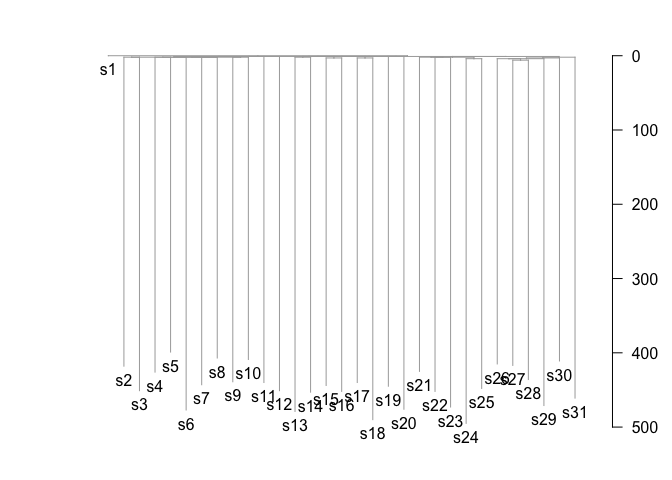
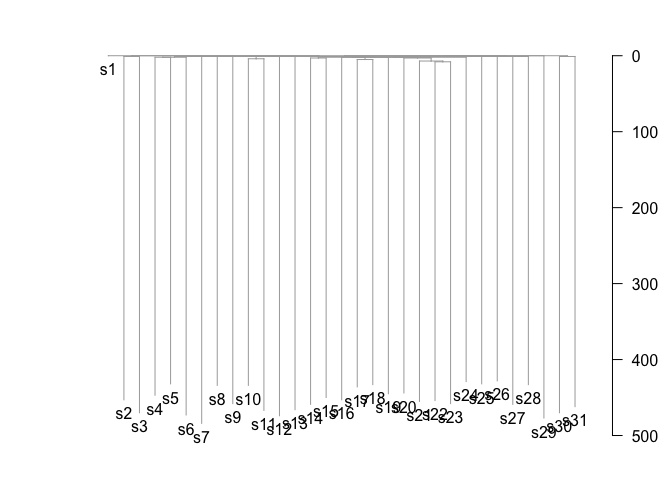
modified vignette

diff --git a/README.md b/README.md
@@ -52,7 +52,7 @@ Where we are using a per-branch estimated sensitivity *s*<sub>*i*</sub> that ind
 
 *m*<sub>*i*</sub> ∼ NB(*λ**t*<sub>*i*</sub>*s*<sub>*i*</sub>, *λ**t*<sub>*i*</sub>*ϕ*)
 
-with priors $\\frac{1}{\\phi} \\sim \\text{HalfNormal}(0,10)$, $\\lambda \\sim \\mathcal{N}(\\hat{\\lambda},0.25 \\hat{\\lambda}$ where $\\hat{\\lambda}$ is the naive estimation of a single rate *λ* as the per patient median of the ratio of the root to tip mutation count and the tip sampling age, and finally we use the weakly informative prior for the stick breaking fractions:
+with priors $\\frac{1}{\\phi} \\sim \\text{HalfNormal}(0,10)$, $\\lambda \\sim \\mathcal{N}(\\hat{\\lambda},0.25 \\hat{\\lambda})$ where $\\hat{\\lambda}$ is the naive estimation of a single rate *λ* as the per patient median of the ratio of the root to tip mutation count and the tip sampling age, and finally we use the weakly informative prior for the stick breaking fractions:
 $$x\_i \\sim \\text{Beta}(\\alpha=\\frac{p\_i}{1-\\sum\_{j\\in A(i)}p\_j},\\beta=1)$$
  where the *p*<sub>*i*</sub> is an initial approximation of the duration of the branch length expressed as a fraction of the sampling time:
 $$p\_i=\\text{min}\_{j\\in D(i)}\\left\\{\\frac{m\_j+1}{\\sum\_{k\\in A(j)}\\left(m\_k+1\\right)}\\right\\}$$
@@ -112,7 +112,7 @@ testing=run_neutral_sim(0.1,1/365,nyears=NYEARS)
 #> n_sim_days: 9125
 #> b_stop_if_empty: 0
 #> b_stop_at_pop_size: 0
-#> maxt: 108.875336391865
+#> maxt: 133.186269064628
 #> driver_rate_per_cell_per_day: 0
 #> MAX_EVENTS= 18250 
 #> MAX_SIZE= 300003
@@ -139,22 +139,22 @@ plot_tree(st)
     res=fit_tree(tree=st,switch_nodes = c(),xcross = c(),niter = 10000,model = "poisson_tree",early_growth_model_on = 0.0)
     #> Warning in fit_tree(tree = st, switch_nodes = c(), xcross = c(), niter =
     #> 10000, : No sensitivity supplied: assuming 99%
-    #> Median lambda estimate=17.94
+    #> Median lambda estimate=18.30
     print(res$lambda)
     #> $mean
-    #> [1] 18.04076
+    #> [1] 18.37559
     #> 
     #> $sd
-    #> [1] 0.1682338
+    #> [1] 0.1715528
     #> 
     #> $lb
-    #> [1] 17.71678
+    #> [1] 18.04111
     #> 
     #> $ub
-    #> [1] 18.3696
+    #> [1] 18.72024
     #> 
     #> $median
-    #> [1] 18.03967
+    #> [1] 18.37409
     par(mfcol=c(1,2))
     ut=get_elapsed_time_tree(st)
     ut$edge.length=ut$edge.length/365
@@ -194,103 +194,19 @@ selsim=run_selection_sim(0.1,1/365,target_pop_size = 1e5,nyears_driver_acquisiti
 #> n_sim_days: 1825
 #> b_stop_if_empty: 0
 #> b_stop_at_pop_size: 0
-#> maxt: 113.216568512356
+#> maxt: 109.958137588241
 #> driver_rate_per_cell_per_day: 0
 #> MAX_EVENTS= 3650 
 #> MAX_SIZE= 300003 
 #> No driver found: tries= 0 
 #>    val population fitness id driver1
 #> 1    0          1     0.0  0       0
-#> 2    1      99954     0.0  0       0
+#> 2    1      99976     0.0  0       0
 #> 21   1          1     0.3  1       1
 #> n_sim_days: 14600
 #> b_stop_if_empty: 1
 #> b_stop_at_pop_size: 0
-#> maxt: 1825.00300661177
-#> driver_rate_per_cell_per_day: 0
-#> MAX_EVENTS= 29200 
-#> MAX_SIZE= 300003 
-#> No driver found: tries= 1 
-#>    val population fitness id driver1
-#> 1    0          1     0.0  0       0
-#> 2    1      99954     0.0  0       0
-#> 21   1          1     0.3  1       1
-#> n_sim_days: 14600
-#> b_stop_if_empty: 1
-#> b_stop_at_pop_size: 0
-#> maxt: 1825.00300661177
-#> driver_rate_per_cell_per_day: 0
-#> MAX_EVENTS= 29200 
-#> MAX_SIZE= 300003 
-#> No driver found: tries= 2 
-#>    val population fitness id driver1
-#> 1    0          1     0.0  0       0
-#> 2    1      99954     0.0  0       0
-#> 21   1          1     0.3  1       1
-#> n_sim_days: 14600
-#> b_stop_if_empty: 1
-#> b_stop_at_pop_size: 0
-#> maxt: 1825.00300661177
-#> driver_rate_per_cell_per_day: 0
-#> MAX_EVENTS= 29200 
-#> MAX_SIZE= 300003 
-#> No driver found: tries= 3 
-#>    val population fitness id driver1
-#> 1    0          1     0.0  0       0
-#> 2    1      99954     0.0  0       0
-#> 21   1          1     0.3  1       1
-#> n_sim_days: 14600
-#> b_stop_if_empty: 1
-#> b_stop_at_pop_size: 0
-#> maxt: 1825.00300661177
-#> driver_rate_per_cell_per_day: 0
-#> MAX_EVENTS= 29200 
-#> MAX_SIZE= 300003 
-#> No driver found: tries= 4 
-#>    val population fitness id driver1
-#> 1    0          1     0.0  0       0
-#> 2    1      99954     0.0  0       0
-#> 21   1          1     0.3  1       1
-#> n_sim_days: 14600
-#> b_stop_if_empty: 1
-#> b_stop_at_pop_size: 0
-#> maxt: 1825.00300661177
-#> driver_rate_per_cell_per_day: 0
-#> MAX_EVENTS= 29200 
-#> MAX_SIZE= 300003 
-#> No driver found: tries= 5 
-#>    val population fitness id driver1
-#> 1    0          1     0.0  0       0
-#> 2    1      99954     0.0  0       0
-#> 21   1          1     0.3  1       1
-#> n_sim_days: 14600
-#> b_stop_if_empty: 1
-#> b_stop_at_pop_size: 0
-#> maxt: 1825.00300661177
-#> driver_rate_per_cell_per_day: 0
-#> MAX_EVENTS= 29200 
-#> MAX_SIZE= 300003 
-#> No driver found: tries= 6 
-#>    val population fitness id driver1
-#> 1    0          1     0.0  0       0
-#> 2    1      99954     0.0  0       0
-#> 21   1          1     0.3  1       1
-#> n_sim_days: 14600
-#> b_stop_if_empty: 1
-#> b_stop_at_pop_size: 0
-#> maxt: 1825.00300661177
-#> driver_rate_per_cell_per_day: 0
-#> MAX_EVENTS= 29200 
-#> MAX_SIZE= 300003 
-#> No driver found: tries= 7 
-#>    val population fitness id driver1
-#> 1    0          1     0.0  0       0
-#> 2    1      99954     0.0  0       0
-#> 21   1          1     0.3  1       1
-#> n_sim_days: 14600
-#> b_stop_if_empty: 1
-#> b_stop_at_pop_size: 0
-#> maxt: 1825.00300661177
+#> maxt: 1825.00193260129
 #> driver_rate_per_cell_per_day: 0
 #> MAX_EVENTS= 29200 
 #> MAX_SIZE= 300003
@@ -305,29 +221,30 @@ node=st$events$node[which(st$events$driverid==1)]
 res=fit_tree(tree=st,switch_nodes = node,xcross = c(),niter = 10000,model = "poisson_tree",early_growth_model_on = 0.0)
 #> Warning in fit_tree(tree = st, switch_nodes = node, xcross = c(), niter =
 #> 10000, : No sensitivity supplied: assuming 99%
-#> Median lambda estimate=15.20
+#> Median lambda estimate=15.10
 print(res$lambda)
 #> $mean
 #> lambda[1] lambda[2] 
-#>  15.05286  15.67520 
+#>  15.23813  15.04098 
 #> 
 #> $sd
 #> lambda[1] lambda[2] 
-#> 0.1306224 0.5213855 
+#> 0.1374329 0.4578260 
 #> 
 #> $lb
 #> lambda[1] lambda[2] 
-#>  14.79680  14.69335 
+#>  14.97016  14.17920 
 #> 
 #> $ub
 #> lambda[1] lambda[2] 
-#>  15.30864  16.76342 
+#>  15.50640  15.95628 
 #> 
 #> $median
 #> lambda[1] lambda[2] 
-#>  15.05287  15.65733
+#>  15.23717  15.02817
 ut=get_elapsed_time_tree(st)
 ut$edge.length=ut$edge.length/365
+par(mfcol=c(1,2))
 plot_tree(ut,cex.label = 0);title("True Ultrametric Tree")
 #> 
 #> Phylogenetic tree with 31 tips and 30 internal nodes.
@@ -336,11 +253,6 @@ plot_tree(ut,cex.label = 0);title("True Ultrametric Tree")
 #>  s1, s2, s3, s4, s5, s6, ...
 #> 
 #> Rooted; includes branch lengths.
-```
-
-<img src="man/figures/README-unnamed-chunk-3-1.png" width="100%" />
-
-``` r
 plot_tree(res$ultratree,cex.label = 0);title("Inferred Tree")
 #> 
 #> Phylogenetic tree with 31 tips and 30 internal nodes.
@@ -351,4 +263,4 @@ plot_tree(res$ultratree,cex.label = 0);title("Inferred Tree")
 #> Rooted; includes branch lengths.
 ```
 
-<img src="man/figures/README-unnamed-chunk-3-2.png" width="100%" />
+<img src="man/figures/README-unnamed-chunk-3-1.png" width="100%" />
